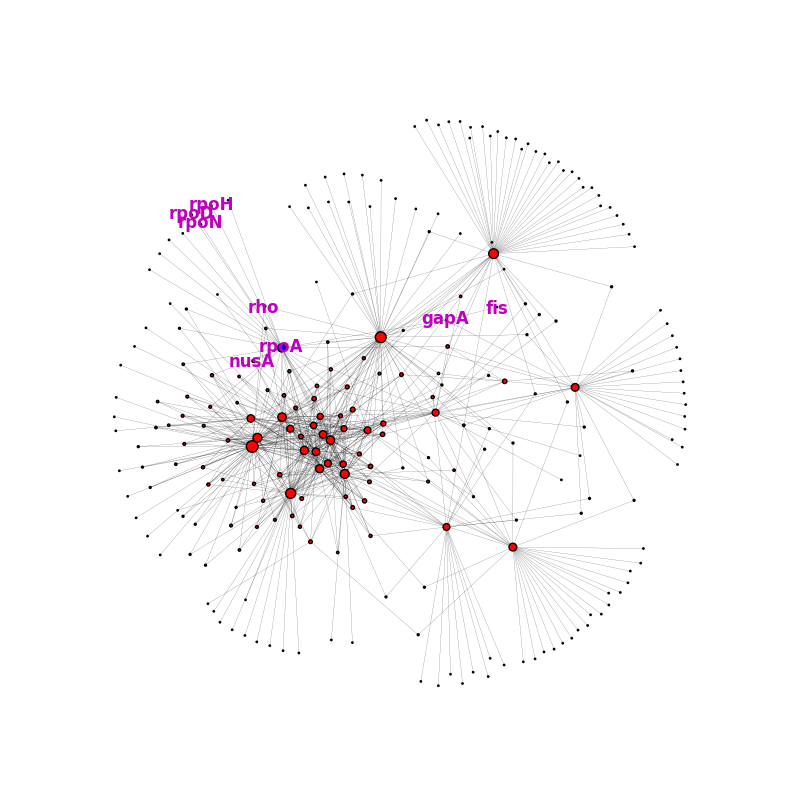
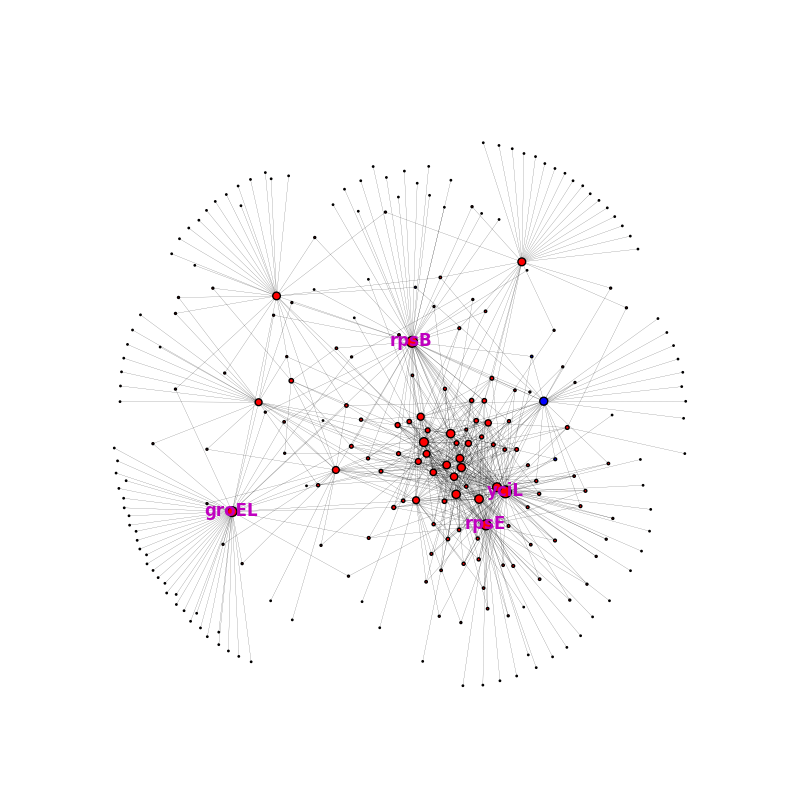
added sample image to readme v2

Changed region(s): [[0.1562, 0.1562, 0.875, 0.8438], [0.7188, 0.3438, 0.75, 0.375]]

diff --git a/network_generator.py b/network_generator.py
@@ -143,8 +143,8 @@ def main():
 	
 	node_degree = calculate_degree(G)
 	node_color = highlight_targets(G, create_targets)
-	#node_label = label_by_degree(G, 40)
-	node_label = label_by_target(G, create_targets)
+	node_label = label_by_degree(G, 40)
+	#node_label = label_by_target(G, create_targets)
 
 	plt.figure(figsize=(8,8))
 	#node_color = [float(G.degree(node)) for node in G]
